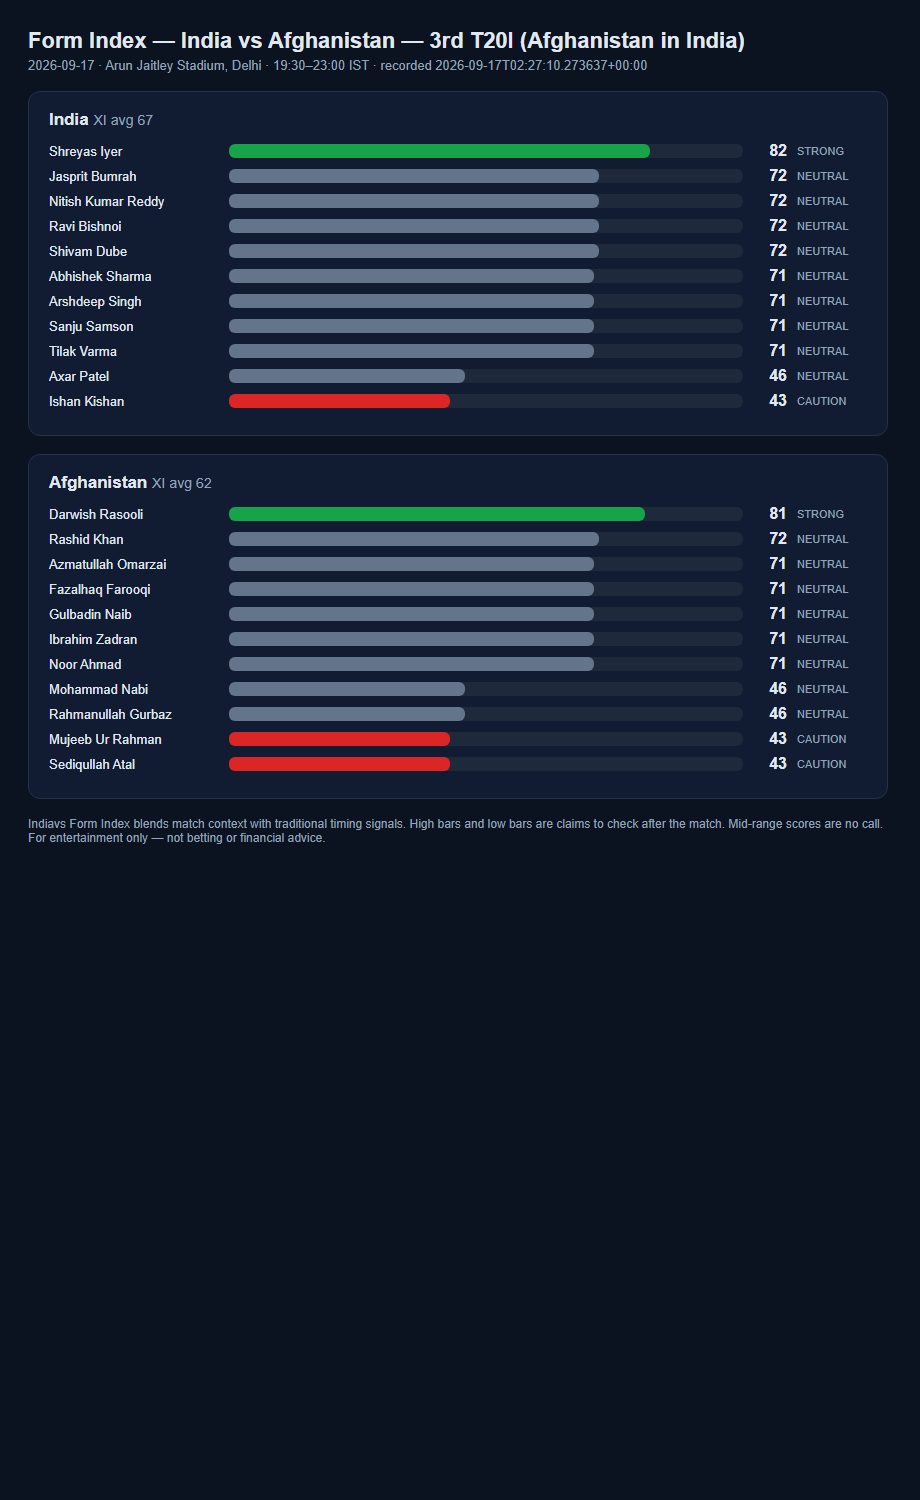
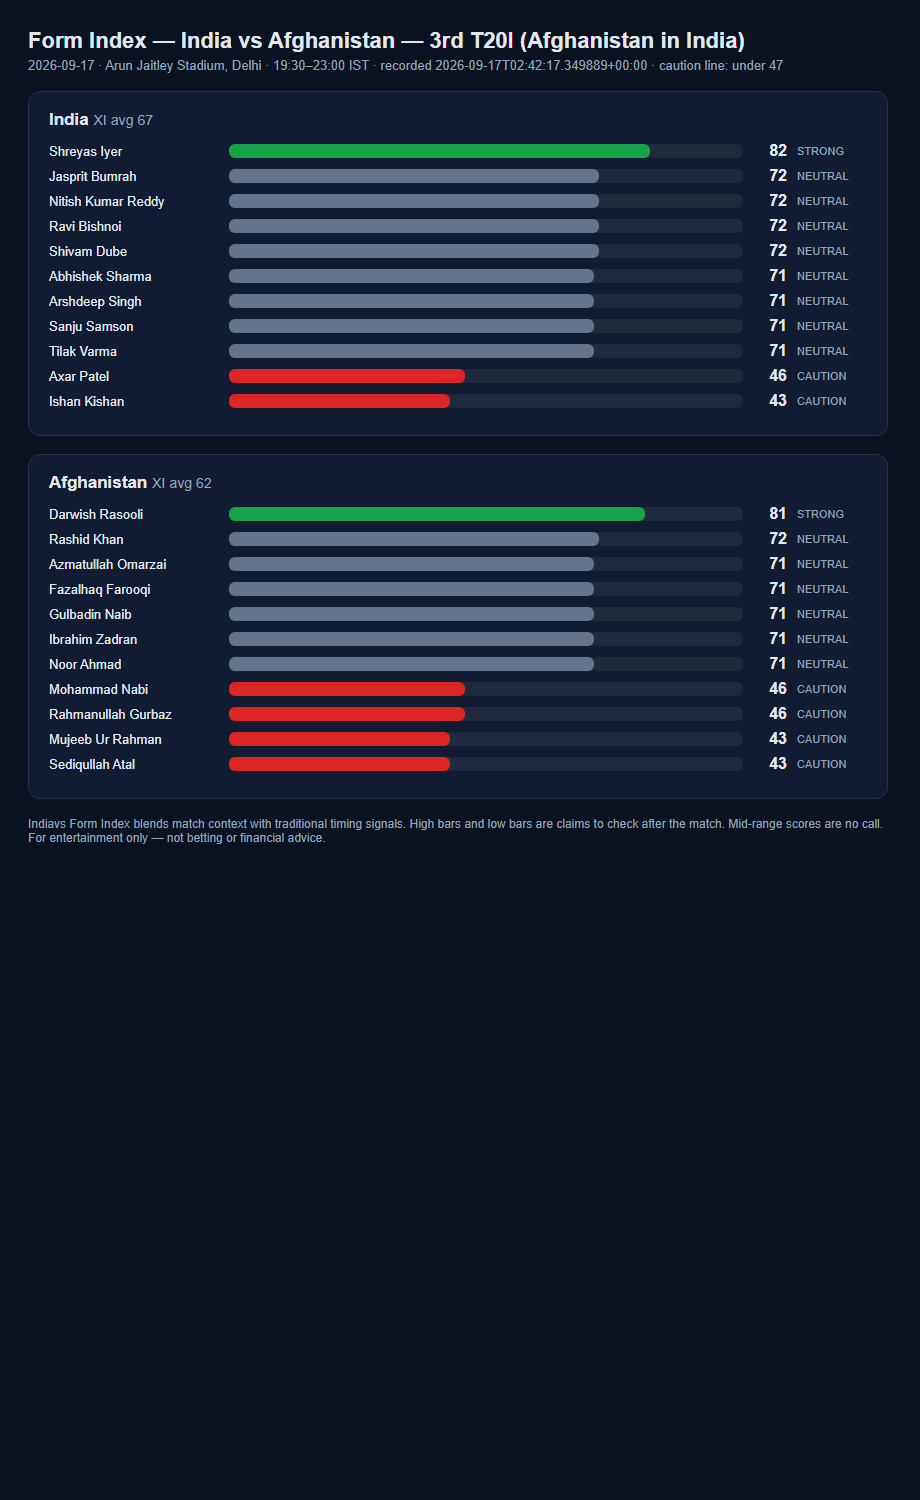
Calibration update (pre-match): caution line under 47; IND-AFG 3rd T20I record re-cut 2026-09-17T02:42Z

diff --git a/india-afg-3rd-t20i-2026-09-17.html b/india-afg-3rd-t20i-2026-09-17.html
@@ -11,8 +11,8 @@ h2{font-size:17px;margin:0 0 12px} h2 small{color:#94a3b8;font-weight:normal}
 .foot{color:#94a3b8;font-size:12px;margin-top:14px}
 </style></head><body>
 <h1>Form Index &mdash; India vs Afghanistan — 3rd T20I (Afghanistan in India)</h1>
-<div class="meta">2026-09-17 &middot; Arun Jaitley Stadium, Delhi &middot; 19:30–23:00 IST &middot; recorded 2026-09-17T02:27:10.273637+00:00</div>
-<div class="card"><h2>India <small>XI avg 67</small></h2><div class="row"><span class="nm">Shreyas Iyer</span><span class="track"><span class="fill" style="width:82%;background:#16a34a"></span></span><span class="sc">82</span><span class="bd">strong</span></div><div class="row"><span class="nm">Jasprit Bumrah</span><span class="track"><span class="fill" style="width:72%;background:#64748b"></span></span><span class="sc">72</span><span class="bd">neutral</span></div><div class="row"><span class="nm">Nitish Kumar Reddy</span><span class="track"><span class="fill" style="width:72%;background:#64748b"></span></span><span class="sc">72</span><span class="bd">neutral</span></div><div class="row"><span class="nm">Ravi Bishnoi</span><span class="track"><span class="fill" style="width:72%;background:#64748b"></span></span><span class="sc">72</span><span class="bd">neutral</span></div><div class="row"><span class="nm">Shivam Dube</span><span class="track"><span class="fill" style="width:72%;background:#64748b"></span></span><span class="sc">72</span><span class="bd">neutral</span></div><div class="row"><span class="nm">Abhishek Sharma</span><span class="track"><span class="fill" style="width:71%;background:#64748b"></span></span><span class="sc">71</span><span class="bd">neutral</span></div><div class="row"><span class="nm">Arshdeep Singh</span><span class="track"><span class="fill" style="width:71%;background:#64748b"></span></span><span class="sc">71</span><span class="bd">neutral</span></div><div class="row"><span class="nm">Sanju Samson</span><span class="track"><span class="fill" style="width:71%;background:#64748b"></span></span><span class="sc">71</span><span class="bd">neutral</span></div><div class="row"><span class="nm">Tilak Varma</span><span class="track"><span class="fill" style="width:71%;background:#64748b"></span></span><span class="sc">71</span><span class="bd">neutral</span></div><div class="row"><span class="nm">Axar Patel</span><span class="track"><span class="fill" style="width:46%;background:#64748b"></span></span><span class="sc">46</span><span class="bd">neutral</span></div><div class="row"><span class="nm">Ishan Kishan</span><span class="track"><span class="fill" style="width:43%;background:#dc2626"></span></span><span class="sc">43</span><span class="bd">caution</span></div></div>
-<div class="card"><h2>Afghanistan <small>XI avg 62</small></h2><div class="row"><span class="nm">Darwish Rasooli</span><span class="track"><span class="fill" style="width:81%;background:#16a34a"></span></span><span class="sc">81</span><span class="bd">strong</span></div><div class="row"><span class="nm">Rashid Khan</span><span class="track"><span class="fill" style="width:72%;background:#64748b"></span></span><span class="sc">72</span><span class="bd">neutral</span></div><div class="row"><span class="nm">Azmatullah Omarzai</span><span class="track"><span class="fill" style="width:71%;background:#64748b"></span></span><span class="sc">71</span><span class="bd">neutral</span></div><div class="row"><span class="nm">Fazalhaq Farooqi</span><span class="track"><span class="fill" style="width:71%;background:#64748b"></span></span><span class="sc">71</span><span class="bd">neutral</span></div><div class="row"><span class="nm">Gulbadin Naib</span><span class="track"><span class="fill" style="width:71%;background:#64748b"></span></span><span class="sc">71</span><span class="bd">neutral</span></div><div class="row"><span class="nm">Ibrahim Zadran</span><span class="track"><span class="fill" style="width:71%;background:#64748b"></span></span><span class="sc">71</span><span class="bd">neutral</span></div><div class="row"><span class="nm">Noor Ahmad</span><span class="track"><span class="fill" style="width:71%;background:#64748b"></span></span><span class="sc">71</span><span class="bd">neutral</span></div><div class="row"><span class="nm">Mohammad Nabi</span><span class="track"><span class="fill" style="width:46%;background:#64748b"></span></span><span class="sc">46</span><span class="bd">neutral</span></div><div class="row"><span class="nm">Rahmanullah Gurbaz</span><span class="track"><span class="fill" style="width:46%;background:#64748b"></span></span><span class="sc">46</span><span class="bd">neutral</span></div><div class="row"><span class="nm">Mujeeb Ur Rahman</span><span class="track"><span class="fill" style="width:43%;background:#dc2626"></span></span><span class="sc">43</span><span class="bd">caution</span></div><div class="row"><span class="nm">Sediqullah Atal</span><span class="track"><span class="fill" style="width:43%;background:#dc2626"></span></span><span class="sc">43</span><span class="bd">caution</span></div></div>
+<div class="meta">2026-09-17 &middot; Arun Jaitley Stadium, Delhi &middot; 19:30–23:00 IST &middot; recorded 2026-09-17T02:42:17.349889+00:00 &middot; caution line: under 47</div>
+<div class="card"><h2>India <small>XI avg 67</small></h2><div class="row"><span class="nm">Shreyas Iyer</span><span class="track"><span class="fill" style="width:82%;background:#16a34a"></span></span><span class="sc">82</span><span class="bd">strong</span></div><div class="row"><span class="nm">Jasprit Bumrah</span><span class="track"><span class="fill" style="width:72%;background:#64748b"></span></span><span class="sc">72</span><span class="bd">neutral</span></div><div class="row"><span class="nm">Nitish Kumar Reddy</span><span class="track"><span class="fill" style="width:72%;background:#64748b"></span></span><span class="sc">72</span><span class="bd">neutral</span></div><div class="row"><span class="nm">Ravi Bishnoi</span><span class="track"><span class="fill" style="width:72%;background:#64748b"></span></span><span class="sc">72</span><span class="bd">neutral</span></div><div class="row"><span class="nm">Shivam Dube</span><span class="track"><span class="fill" style="width:72%;background:#64748b"></span></span><span class="sc">72</span><span class="bd">neutral</span></div><div class="row"><span class="nm">Abhishek Sharma</span><span class="track"><span class="fill" style="width:71%;background:#64748b"></span></span><span class="sc">71</span><span class="bd">neutral</span></div><div class="row"><span class="nm">Arshdeep Singh</span><span class="track"><span class="fill" style="width:71%;background:#64748b"></span></span><span class="sc">71</span><span class="bd">neutral</span></div><div class="row"><span class="nm">Sanju Samson</span><span class="track"><span class="fill" style="width:71%;background:#64748b"></span></span><span class="sc">71</span><span class="bd">neutral</span></div><div class="row"><span class="nm">Tilak Varma</span><span class="track"><span class="fill" style="width:71%;background:#64748b"></span></span><span class="sc">71</span><span class="bd">neutral</span></div><div class="row"><span class="nm">Axar Patel</span><span class="track"><span class="fill" style="width:46%;background:#dc2626"></span></span><span class="sc">46</span><span class="bd">caution</span></div><div class="row"><span class="nm">Ishan Kishan</span><span class="track"><span class="fill" style="width:43%;background:#dc2626"></span></span><span class="sc">43</span><span class="bd">caution</span></div></div>
+<div class="card"><h2>Afghanistan <small>XI avg 62</small></h2><div class="row"><span class="nm">Darwish Rasooli</span><span class="track"><span class="fill" style="width:81%;background:#16a34a"></span></span><span class="sc">81</span><span class="bd">strong</span></div><div class="row"><span class="nm">Rashid Khan</span><span class="track"><span class="fill" style="width:72%;background:#64748b"></span></span><span class="sc">72</span><span class="bd">neutral</span></div><div class="row"><span class="nm">Azmatullah Omarzai</span><span class="track"><span class="fill" style="width:71%;background:#64748b"></span></span><span class="sc">71</span><span class="bd">neutral</span></div><div class="row"><span class="nm">Fazalhaq Farooqi</span><span class="track"><span class="fill" style="width:71%;background:#64748b"></span></span><span class="sc">71</span><span class="bd">neutral</span></div><div class="row"><span class="nm">Gulbadin Naib</span><span class="track"><span class="fill" style="width:71%;background:#64748b"></span></span><span class="sc">71</span><span class="bd">neutral</span></div><div class="row"><span class="nm">Ibrahim Zadran</span><span class="track"><span class="fill" style="width:71%;background:#64748b"></span></span><span class="sc">71</span><span class="bd">neutral</span></div><div class="row"><span class="nm">Noor Ahmad</span><span class="track"><span class="fill" style="width:71%;background:#64748b"></span></span><span class="sc">71</span><span class="bd">neutral</span></div><div class="row"><span class="nm">Mohammad Nabi</span><span class="track"><span class="fill" style="width:46%;background:#dc2626"></span></span><span class="sc">46</span><span class="bd">caution</span></div><div class="row"><span class="nm">Rahmanullah Gurbaz</span><span class="track"><span class="fill" style="width:46%;background:#dc2626"></span></span><span class="sc">46</span><span class="bd">caution</span></div><div class="row"><span class="nm">Mujeeb Ur Rahman</span><span class="track"><span class="fill" style="width:43%;background:#dc2626"></span></span><span class="sc">43</span><span class="bd">caution</span></div><div class="row"><span class="nm">Sediqullah Atal</span><span class="track"><span class="fill" style="width:43%;background:#dc2626"></span></span><span class="sc">43</span><span class="bd">caution</span></div></div>
 <div class="foot">Indiavs Form Index blends match context with traditional timing signals. High bars and low bars are claims to check after the match. Mid-range scores are no call. For entertainment only — not betting or financial advice.</div>
 </body></html>

diff --git a/india-afg-3rd-t20i-2026-09-17.md b/india-afg-3rd-t20i-2026-09-17.md
@@ -2,7 +2,8 @@
 
 - Match date: 2026-09-17 · Venue: Arun Jaitley Stadium, Delhi
 - Window (IST): 19:30–23:00
-- Record generated (UTC): 2026-09-17T02:27:10.273637+00:00
+- Record generated (UTC): 2026-09-17T02:42:17.349889+00:00
+- Calibration: strong ≥ 75 · caution < 47 · neutral 47–74
 - India XI average: 67
 - Afghanistan XI average: 62
 
@@ -19,7 +20,7 @@
 | Arshdeep Singh | 71 | neutral | none |
 | Sanju Samson | 71 | neutral | none |
 | Tilak Varma | 71 | neutral | none |
-| Axar Patel | 46 | neutral | none |
+| Axar Patel | 46 | caution | difficult |
 | Ishan Kishan | 43 | caution | difficult |
 
 ## Afghanistan playing XI
@@ -33,8 +34,8 @@
 | Gulbadin Naib | 71 | neutral | none |
 | Ibrahim Zadran | 71 | neutral | none |
 | Noor Ahmad | 71 | neutral | none |
-| Mohammad Nabi | 46 | neutral | none |
-| Rahmanullah Gurbaz | 46 | neutral | none |
+| Mohammad Nabi | 46 | caution | difficult |
+| Rahmanullah Gurbaz | 46 | caution | difficult |
 | Mujeeb Ur Rahman | 43 | caution | difficult |
 | Sediqullah Atal | 43 | caution | difficult |
 

diff --git a/README.md b/README.md
@@ -16,8 +16,8 @@ with the actual match result afterwards to check accuracy.
 ## Reading a record
 
 - **Index 75+ (strong)** — claim of favourable timing for that player.
-- **Index 45 or below (caution)** — claim of a difficult outing.
-- **46–74 (neutral)** — deliberately no call, neither good nor bad.
+- **Index under 47 (caution)** — claim of a difficult outing.
+- **47–74 (neutral)** — deliberately no call, neither good nor bad.
 - Claims are checked after the match across batting, bowling **and**
   fielding (a catch / run-out / stumping counts as a contribution).
 
